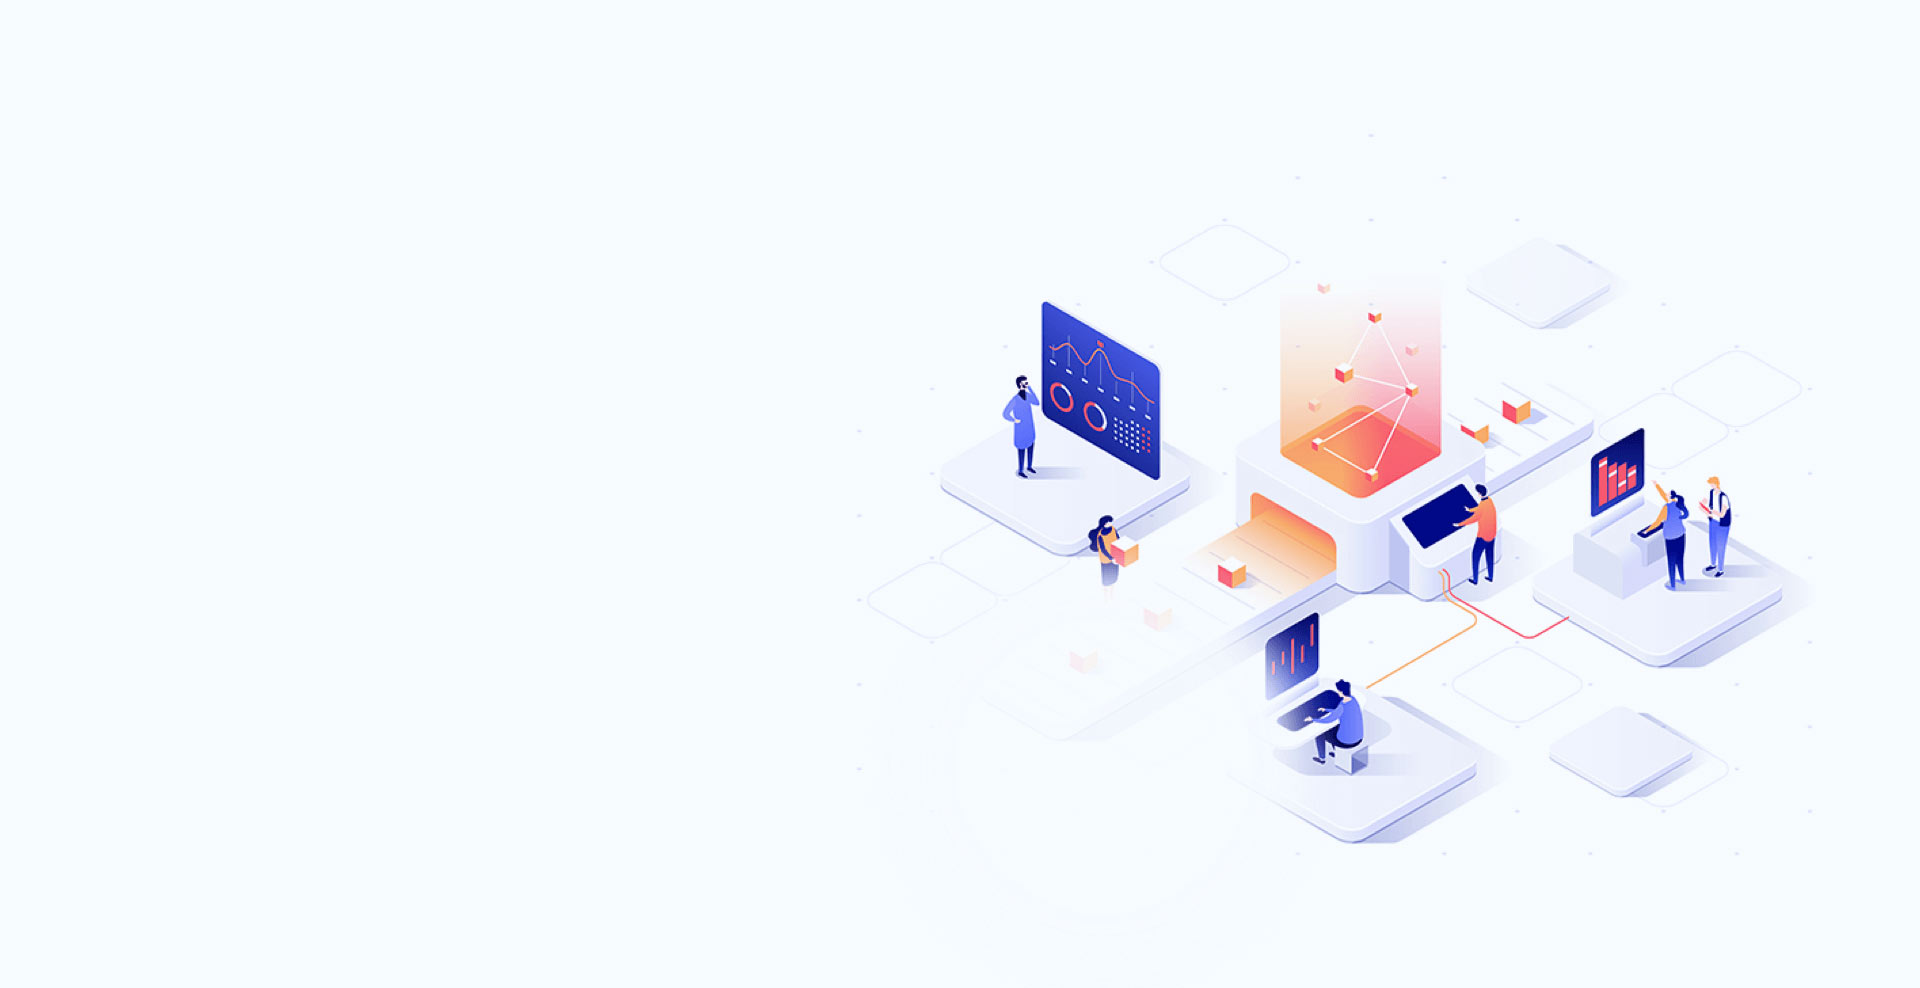
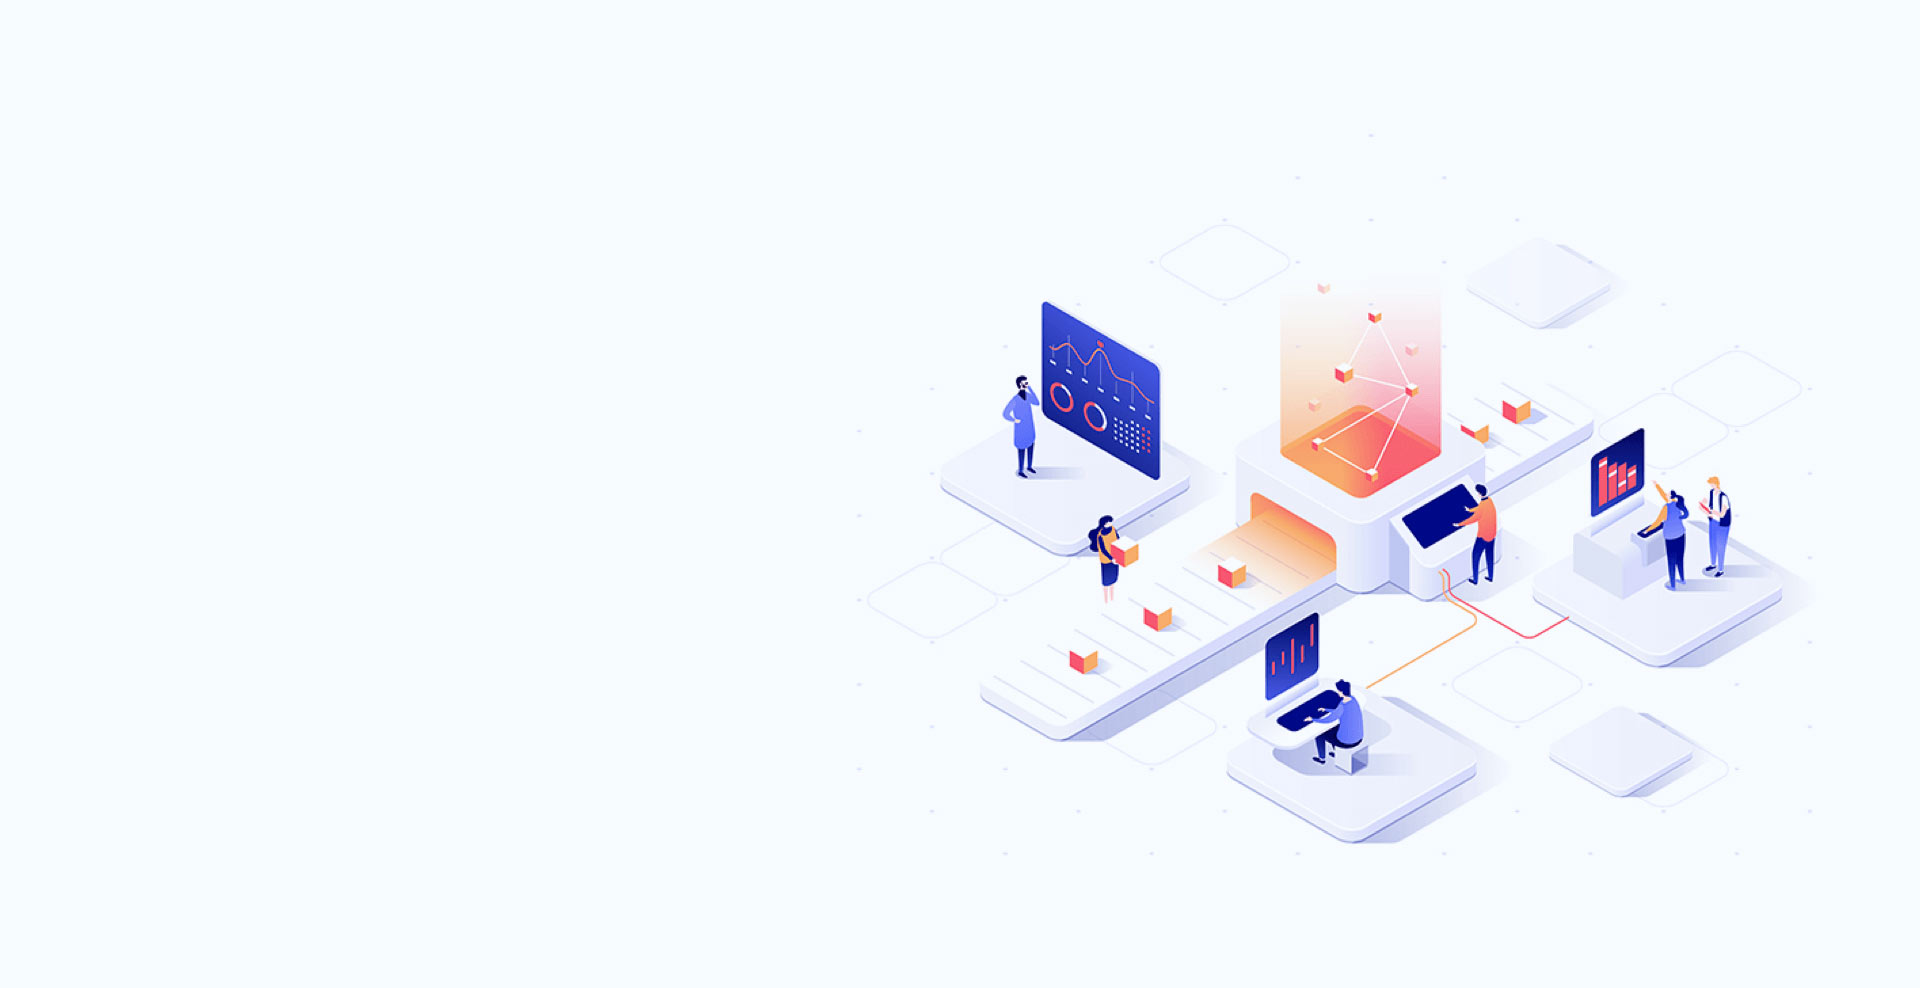
style

Changed region(s): [[0.5312, 0.6377, 0.6875, 0.7895], [0.5625, 0.5466, 0.5938, 0.6073], [0.5938, 0.6073, 0.625, 0.6377]]

diff --git a/pages/index.vue b/pages/index.vue
@@ -4,7 +4,7 @@
     <section class="banner">
       <div>
         <h5>WelCome to <span>{{info.name}}</span> </h5>
-        <h3>Instagram AI Analytics</h3>
+        <h3>{{info.subName}}</h3>
         <p>Enter any @Profile or #Hashtag to ananlyze real-time <span>Engagement Analysis</span></p>
       </div>
     </section>
@@ -81,17 +81,18 @@ export default {
 }
 .banner{
     width: 100%;
-    height: 988px;
-    background: url('../assets/images/bg.jpg') no-repeat left top;
+    /* height: 988px; */
+    height: 640px;
+    background: url('../assets/images/bg2.jpg') no-repeat ;
     /* background-size: cover; */
-    background-size: contain;
+    background-position:90% 30px; 
+    background-size: 40%;
 }
 .banner div{
-  padding-left: 13.65%;
-  padding-top: 27.08%;
+  padding-left: 13.48%;
+  /* padding-top: 27.08%; */
+  padding-top: 15%;
   color:#000;
-  /* width: 42.71%; */
-   width: 53.71%;
   font-size: 10px;
   box-sizing: border-box;
 }
@@ -114,7 +115,7 @@ export default {
 }
 .banner p{
   color:#8F8F8F;
-  width: 75.98%;
+  width: 53.71%;
   font-size: 2.8em;
   line-height: 1.85;
   font-family:'PingFangSC-Regular';
@@ -128,21 +129,18 @@ export default {
   display: flex;
   justify-content: space-between;
   align-items: center;
-  padding: 0 13.65%;
+  padding: 0 13.48%;
   box-sizing: border-box;
-  /* margin-top: -120px; */
 }
 .actions span{
   display: block;
   width: 1px;
   height: 164px;
   background: #E5E5E5;
-  margin-right: 35px;
 }
 .actions .item {
-  /* width: 36.41%; */
+  width: 47.41%;
   position: relative;
-  padding-right: 15px;
 }
 .actions .item p{
   font-size:30px;
@@ -153,7 +151,6 @@ export default {
   margin-bottom: 30px;
 }
 .actions .item div{
-  /* width: 96.24%; */
   width: 100%;
   height: 98px;
   box-shadow:0px 2px 27px 0px rgba(123,123,123,0.11);
@@ -247,10 +244,12 @@ export default {
   .banner{
     /* height: 620px; */
   }
+  .banner h3{
+    font-size: 6em;
+  }
   .banner div{
-    width: 61.71%;
-   font-size: 8px;
-   padding-top: 30%;
+   font-size: 9px;
+   /* padding-top: 30%; */
   }
   .features .icons{
      justify-content: flex-start;
@@ -262,12 +261,7 @@ export default {
   .actions .item input::placeholder{
     font-size: 21px;
   }
-  .actions span{
-    margin-right: 19px;
-  }
-  .actions .item{
-    /* width:38.41%  */
-  }
+
   .actions .item div{
     height: 80px;
   }

diff --git a/components/commonHead.vue b/components/commonHead.vue
@@ -28,7 +28,7 @@ export default {
     display: flex;
     align-items: flex-end;
     box-sizing: border-box;
-    padding-left: 13.65%;
+    padding-left: 14.19%;
 }
 .header img{
   width: 40px;
